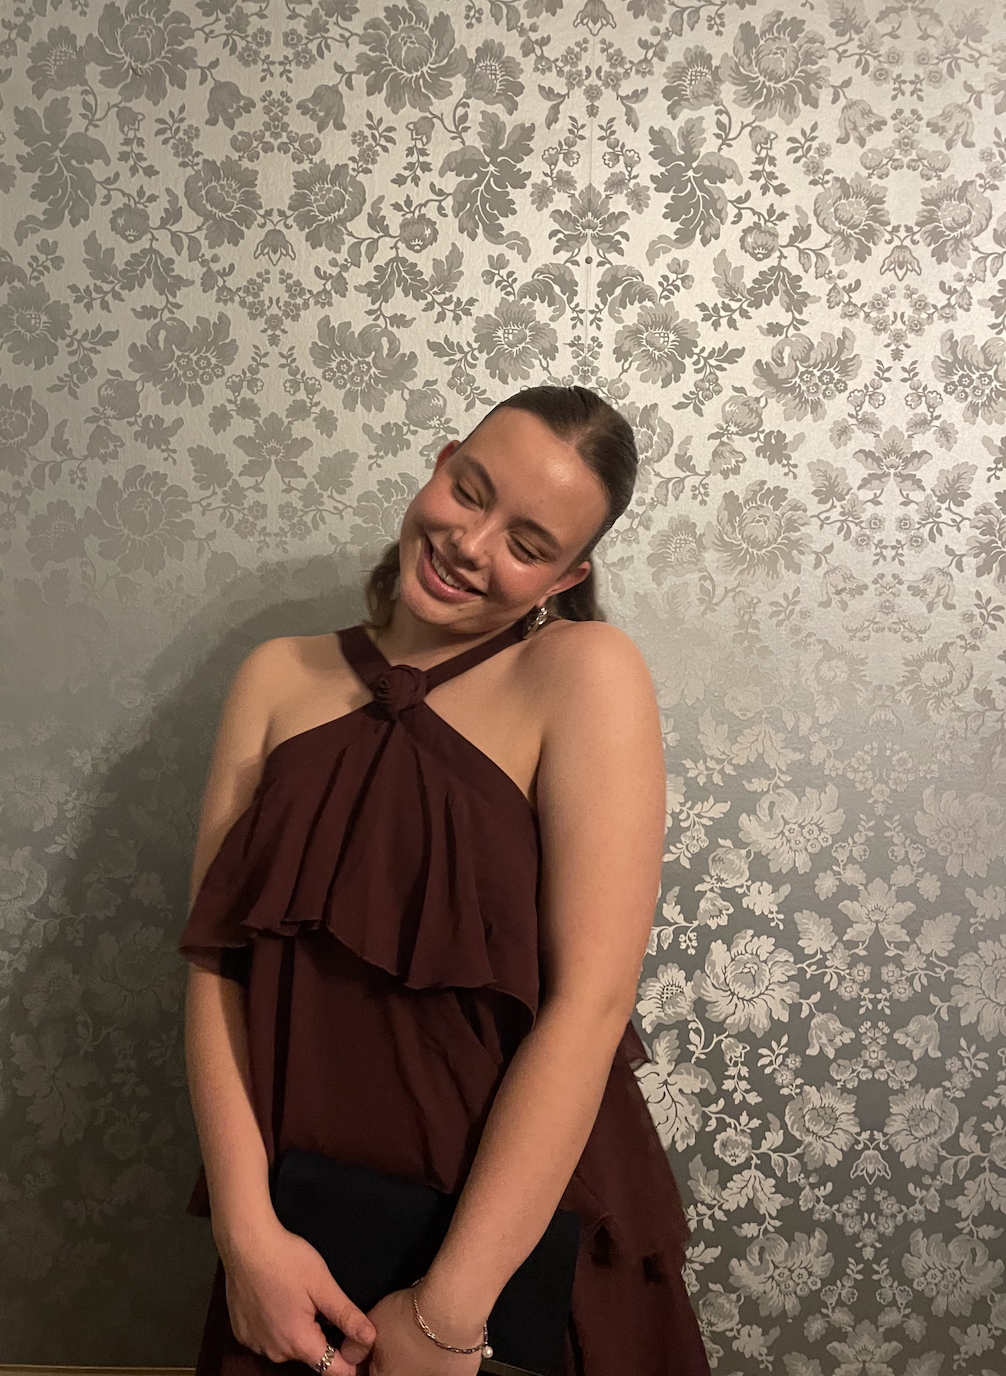
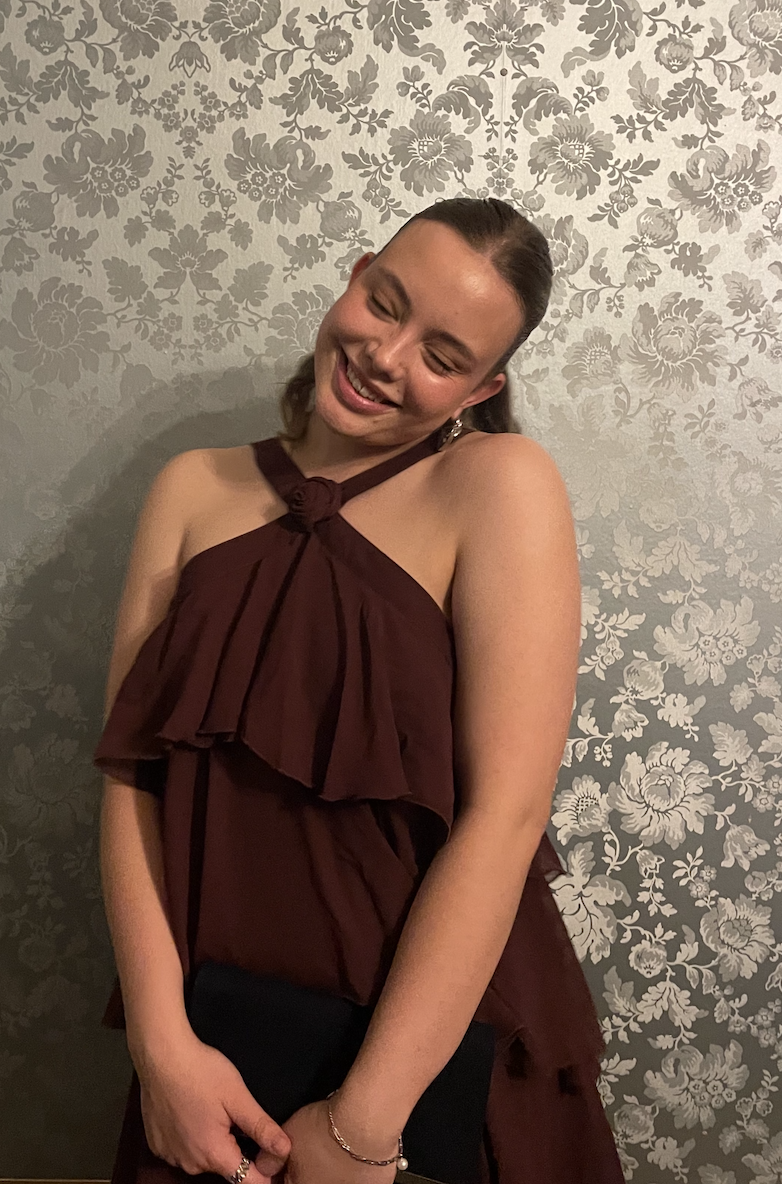
animation

diff --git a/css/main.css b/css/main.css
@@ -52,10 +52,54 @@ h1 {
   margin-top: 10px;
 }
 
-#main-img {
-  width: 40%;
+.main-img {
+  width: 300px;
+  height: 400px;
+  object-fit: cover;
+  position: absolute;
+  top: 0;
+  left: 0;
+  animation-name: pictureslide;
+  animation-duration: 20s;
+  animation-iteration-count: infinite;
+  animation-timing-function: linear;
+  opacity: 0;
+}
+
+#pictureslide {
+  width: 300px;
+  height: 400px;
+  position: relative; /* change referense piont for divs inside*/
   margin-left: 16px;
   margin-top: 30px;
+}
+
+#image1 {
+  animation-delay: 0s;
+}
+
+#image2 {
+  animation-delay: 6.666s;
+}
+
+#image3 {
+  animation-delay: 13.333s;
+}
+
+/* main picture animation */
+/* One picture at a time */
+@keyframes pictureslide {
+  0% {
+    opacity: 0;
+  }
+  5%,
+  35% {
+    opacity: 1;
+  }
+  40%,
+  100% {
+    opacity: 0;
+  }
 }
 
 #aboutme {
@@ -65,7 +109,7 @@ h1 {
 
 #contact {
   margin-left: 16px;
-  margin-top: 10px;
+  margin-top: 16px;
 }
 
 /* contact */
@@ -74,6 +118,13 @@ form input {
   margin-top: 5px;
   margin-bottom: 25px;
   padding-right: 20px;
+  padding: 2px 4px;
+  background-color: white;
+  border: 1px solid black;
+}
+
+form input:focus {
+  outline: 1px solid black;
 }
 
 form label {
@@ -82,8 +133,25 @@ form label {
 
 /* Submit button */
 form a {
-  border: 2px;
   margin-left: 16px;
+}
+
+/* Buttons */
+.button {
+  display: block;
+  width: fit-content;
+  border: 1px solid black;
+  background-color: white;
+  text-decoration: none;
+  transition: all 0.3s;
+  padding: 2px 4px;
+  transform: scale(1);
+}
+
+.button:hover {
+  color: white;
+  background-color: rgb(99, 27, 35);
+  transform: scale(1.2);
 }
 
 /* projects */
@@ -117,7 +185,7 @@ figure {
 #project1img {
   margin-left: 16px;
   margin-top: 10px;
-  width: 70%;
+  width: 50%;
   height: auto;
   object-fit: contain;
 }
@@ -125,7 +193,7 @@ figure {
 /* For all the project 1-6 */
 #backtoproject {
   margin-left: 16px;
-  margin-top: 10px;
+  margin-top: 16px;
 }
 
 /* sent email */
@@ -133,6 +201,12 @@ figure {
   background-color: rgb(254, 220, 226);
   padding: 20px;
   margin-top: 20px;
+}
+
+/* back home button */
+#backhome {
+  margin-left: 16px;
+  margin-top: 16px;
 }
 
 /* Main ends */
@@ -153,6 +227,7 @@ footer p {
 
 /* @Media begins */
 
+/* Links, home and projects */
 @media screen and (max-width: 480px) {
   header,
   ul {
@@ -166,6 +241,7 @@ footer p {
   }
 }
 
+/* projects pictures */
 @media screen and (max-width: 800px) {
   .projects {
     display: grid;

diff --git a/index.html b/index.html
@@ -31,7 +31,26 @@
 
     <main>
       <h1>About Me</h1>
-      <img id="main-img" src="img/main.png" alt="Picture of me" />
+      <div id="pictureslide">
+        <img
+          class="main-img"
+          id="image1"
+          src="img/main.png"
+          alt="Picture of me"
+        />
+        <img
+          class="main-img"
+          id="image2"
+          src="img/mirror.png"
+          alt="Picture of me"
+        />
+        <img
+          class="main-img"
+          id="image3"
+          src="img/ski.JPG"
+          alt="Picture of me"
+        />
+      </div>
       <p id="aboutme">
         My name is Emelie Kryger, and I am a 19-year-old design and web
         development student at Jönköping University. I enjoy creating visually
@@ -41,7 +60,7 @@
       </p>
       <nav>
         <ul id="contact">
-          <a href="contact.html">
+          <a class="button" href="contact.html">
             <li>Contact Form</li>
           </a>
         </ul>

diff --git a/sentemail.html b/sentemail.html
@@ -30,6 +30,13 @@
 
     <main>
       <p id="sentemail">Thank you for sending an email</p>
+      <nav>
+        <ul id="backhome">
+          <a class="button" href="index.html">
+            <li>Back Home</li>
+          </a>
+        </ul>
+      </nav>
     </main>
 
     <footer>

diff --git a/project1.html b/project1.html
@@ -47,7 +47,7 @@
       </a>
       <nav>
         <ul id="backtoproject">
-          <a href="projects.html">
+          <a class="button" href="projects.html">
             <li>Back to projects</li>
           </a>
         </ul>

diff --git a/project2.html b/project2.html
@@ -31,7 +31,7 @@
     <main>
       <nav>
         <ul id="backtoproject">
-          <a href="projects.html">
+          <a class="button" href="projects.html">
             <li>Back to projects</li>
           </a>
         </ul>

diff --git a/project3.html b/project3.html
@@ -31,7 +31,7 @@
     <main>
       <nav>
         <ul id="backtoproject">
-          <a href="projects.html">
+          <a class="button" href="projects.html">
             <li>Back to projects</li>
           </a>
         </ul>

diff --git a/project4.html b/project4.html
@@ -31,7 +31,7 @@
     <main>
       <nav>
         <ul id="backtoproject">
-          <a href="projects.html">
+          <a class="button" href="projects.html">
             <li>Back to projects</li>
           </a>
         </ul>

diff --git a/project5.html b/project5.html
@@ -31,7 +31,7 @@
     <main>
       <nav>
         <ul id="backtoproject">
-          <a href="projects.html">
+          <a class="button" href="projects.html">
             <li>Back to projects</li>
           </a>
         </ul>

diff --git a/project6.html b/project6.html
@@ -31,7 +31,7 @@
     <main>
       <nav>
         <ul id="backtoproject">
-          <a href="projects.html">
+          <a class="button" href="projects.html">
             <li>Back to projects</li>
           </a>
         </ul>

diff --git a/contact.html b/contact.html
@@ -56,7 +56,7 @@
         <input type="text" placeholder="Write here" />
         <br />
 
-        <a href="sentemail.html">Submit</a>
+        <a class="button" href="sentemail.html">Submit</a>
       </form>
     </main>
 
